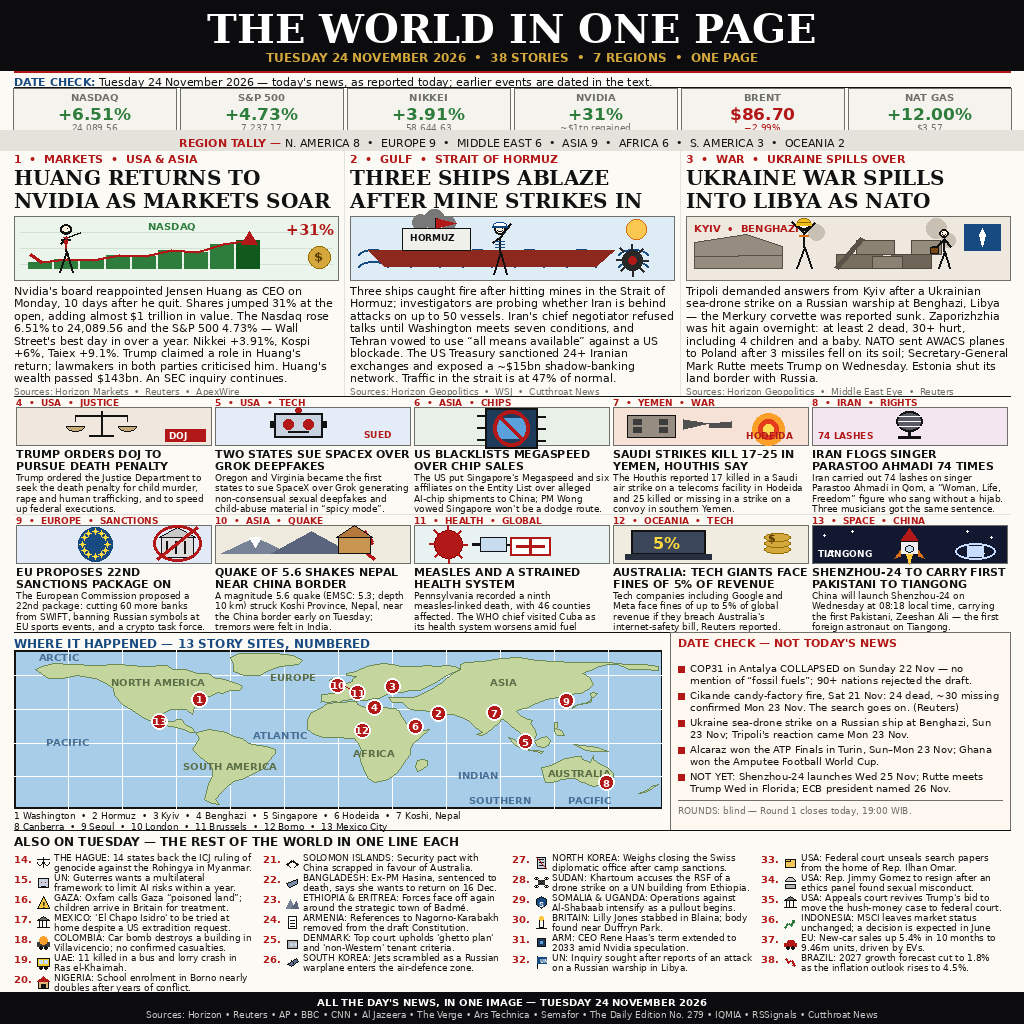
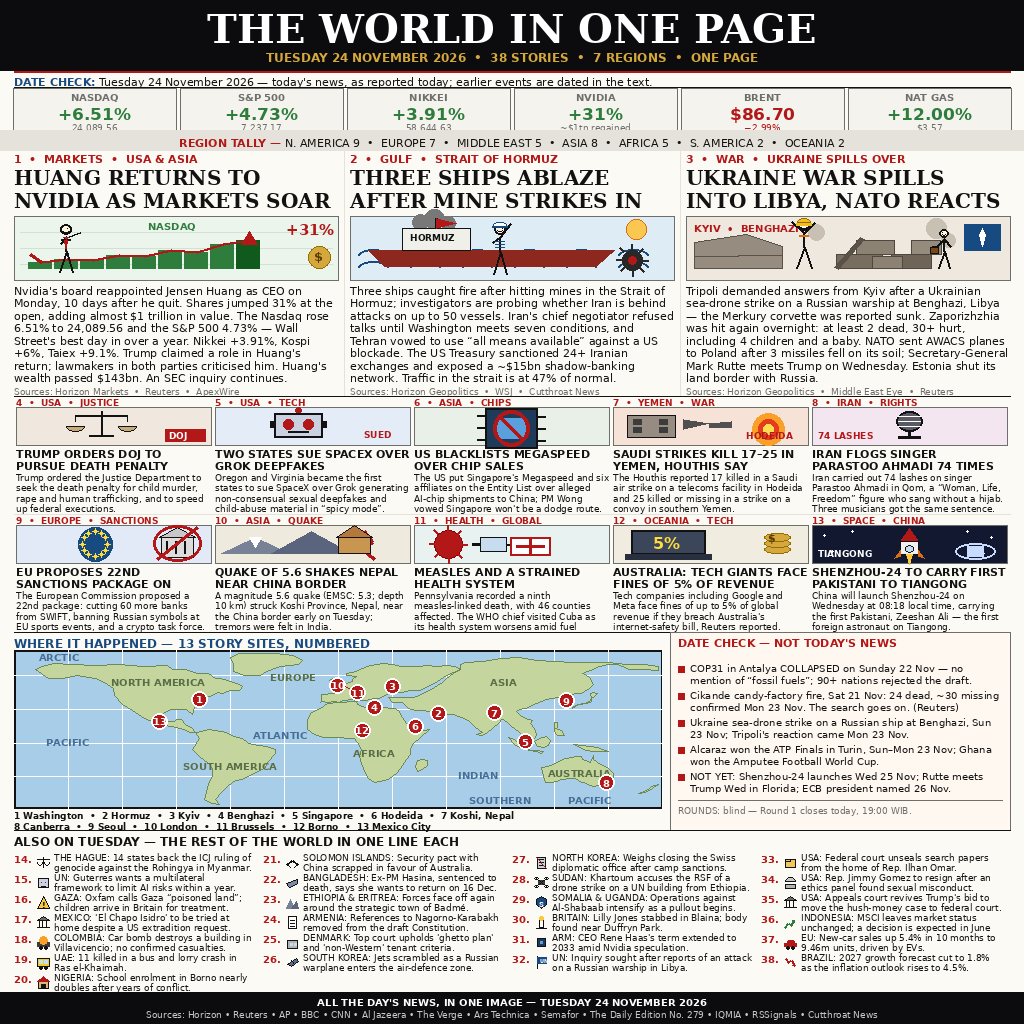
Revisi kecil: tally kawasan = 38, indeks peta Borno tebal, judul lead 3 utuh

Changed region(s): [[0.0312, 0.7812, 0.5, 0.8125], [0.8125, 0.1875, 0.9688, 0.2188]]

diff --git a/generate.py b/generate.py
@@ -701,7 +701,7 @@ LEADS = [
          src="Horizon Geopolitics  •  WSJ  •  Cutthroat News",
          scene=scene_lead2),
     dict(num=3, kick="WAR  •  UKRAINE SPILLS OVER",
-         head="UKRAINE WAR SPILLS INTO LIBYA AS NATO SENDS AWACS",
+         head="UKRAINE WAR SPILLS INTO LIBYA, NATO REACTS",
          body=("Tripoli demanded answers from Kyiv after a Ukrainian sea-drone strike on "
                "a Russian warship at Benghazi, Libya — the Merkury corvette was "
                "reported sunk. Zaporizhzhia was hit again overnight: at least 2 dead, "
@@ -811,8 +811,8 @@ STATS = [
     ("NAT GAS", "+12.00%", "$3.57"),
 ]
 
-TALLY = [("N. AMERICA", 8), ("EUROPE", 9), ("MIDDLE EAST", 6), ("ASIA", 9),
-         ("AFRICA", 6), ("S. AMERICA", 3), ("OCEANIA", 2)]
+TALLY = [("N. AMERICA", 9), ("EUROPE", 7), ("MIDDLE EAST", 5), ("ASIA", 8),
+         ("AFRICA", 5), ("S. AMERICA", 2), ("OCEANIA", 2)]
 
 DATE_CHECK = [
     "COP31 in Antalya COLLAPSED on Sunday 22 Nov — no mention of “fossil fuels”; 90+ nations rejected the draft. (CNN)",
@@ -906,7 +906,7 @@ def build():
     d.text((14, 636), "WHERE IT HAPPENED — 13 STORY SITES, NUMBERED",
            font=font("sans_b", 12), fill=BLUE)
     draw_map(d, 14, 650, 648, 158)
-    fidx = font("sans", 9)
+    fidx = font("sans_b", 9)
     idx1 = "1 Washington  •  2 Hormuz  •  3 Kyiv  •  4 Benghazi  •  5 Singapore  •  " \
            "6 Hodeida  •  7 Koshi, Nepal"
     idx2 = "8 Canberra  •  9 Seoul  •  10 London  •  11 Brussels  •  12 Borno  •  " \
